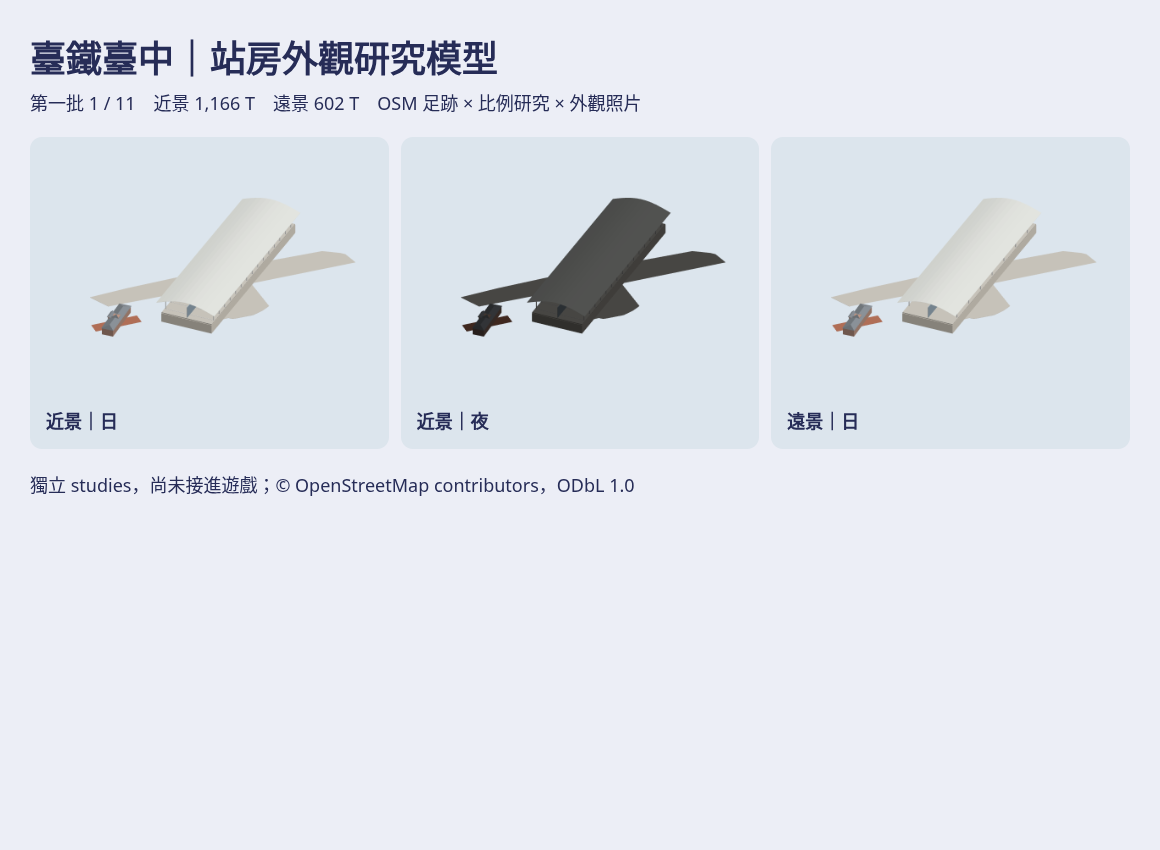
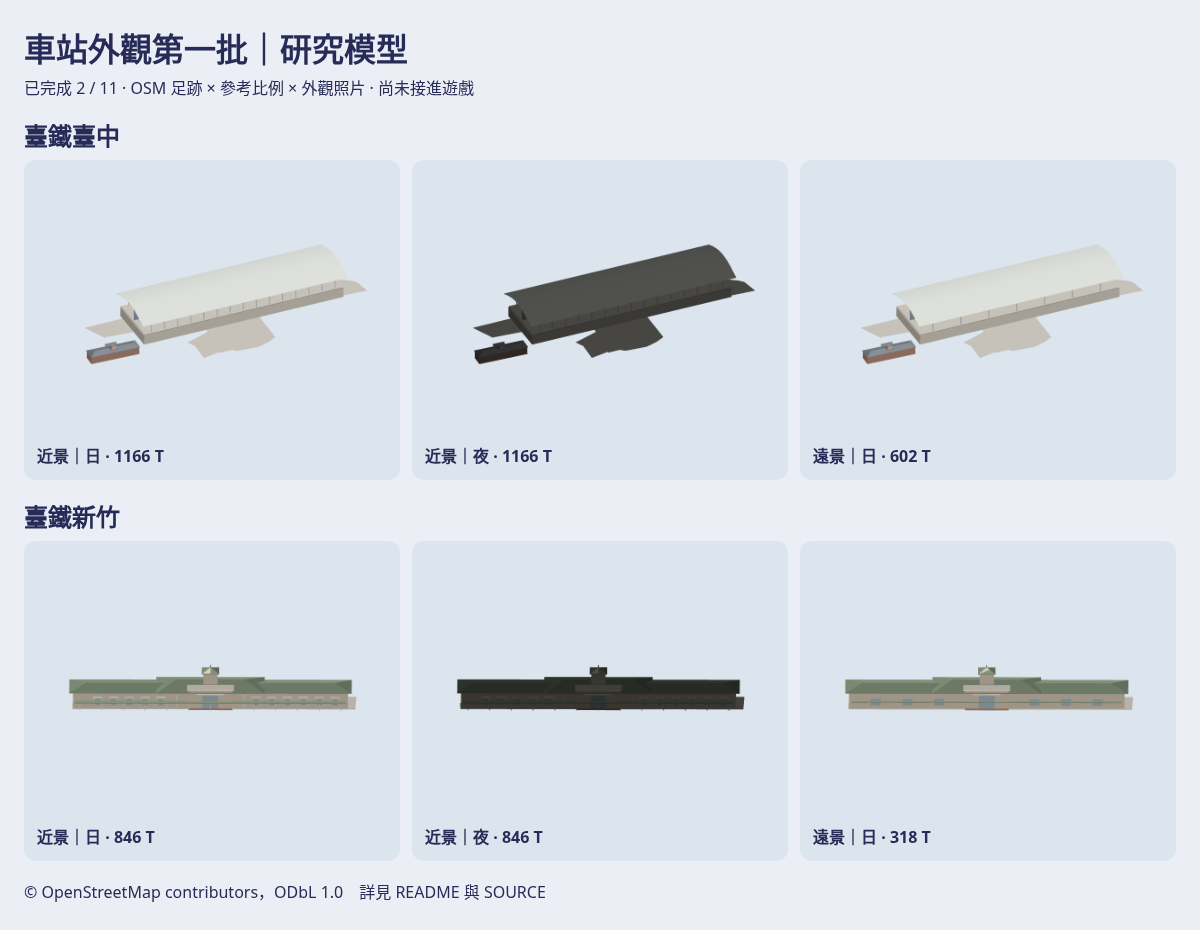
Add isolated Hsinchu station exterior study
Agent: Codex

diff --git a/Sources/GamePresentation/Map3DStationExteriorBatch1.swift b/Sources/GamePresentation/Map3DStationExteriorBatch1.swift
@@ -3,12 +3,13 @@ import Foundation
 /// Isolated exterior study. No station catalog or live-map lookup calls this type.
 public enum Map3DStationExteriorBatch1 {
     public enum LevelOfDetail: Sendable { case near, far }
-    public enum Station: String, CaseIterable, Sendable { case taichungTRA = "tra-taichung" }
+    public enum Station: String, CaseIterable, Sendable { case taichungTRA = "tra-taichung", hsinchuTRA = "tra-hsinchu" }
 
     public static func model(for station: Station, detail: LevelOfDetail) -> Map3DModelPack.Model {
         var builder = StationKitBuilder()
         switch station {
         case .taichungTRA: builder.taichungExteriorStudy(detail: detail)
+        case .hsinchuTRA: builder.hsinchuExteriorStudy(detail: detail)
         }
         return .flat(named: "station-exterior-study-\(station.rawValue)-\(detail == .near ? "near" : "far")", from: builder.mesh)
     }
@@ -75,6 +76,27 @@ public enum Map3DStationExteriorBatch1 {
         (-149.051, -38.319),
         (-154.586, -40.721)
     ]
+    // OSM way 293504390: 16 vertices, height=9, levels=2; no roof or tower part tags.
+    // Metres east/north from (120.97165154, 24.80160443); © OpenStreetMap contributors, ODbL 1.0.
+    static let hsinchuFootprint: [(Float, Float)] = [
+        (-57.772, -45.737),
+        (-59.185, -43.625),
+        (-66.059, -33.417),
+        (-45.387, -20.285),
+        (-27.409, -8.620),
+        (-13.449, 0.386),
+        (4.366, 11.873),
+        (15.470, 19.401),
+        (50.485, 42.085),
+        (57.087, 34.179),
+        (59.994, 36.047),
+        (61.720, 33.044),
+        (63.335, 30.242),
+        (4.669, -6.563),
+        (-10.401, -16.015),
+        (-37.463, -32.994)
+    ]
+
 }
 
 private extension StationKitBuilder {
@@ -152,7 +174,7 @@ private extension StationKitBuilder {
             }
         }
         // Reference OSM minimum rotated rectangle is 20.9529° east/north.
-        add(.flat(named: "hall", from: hall.mesh), at: Map3DPoint(18, 0, -24), angle: -20.9529 * .pi / 180)
+        add(.flat(named: "hall", from: hall.mesh), at: Map3DPoint(18, 0, -24), angle: 20.9529 * .pi / 180)
 
         // Former station: brick Baroque body, hipped roof, central clock tower.
         // OSM records two levels and roof:shape=hipped; 13 m total is estimated.
@@ -174,6 +196,56 @@ private extension StationKitBuilder {
         } else {
             old.clockFace(0, 9.45, -4.33, size: 1.8)
         }
-        add(.flat(named: "old-station", from: old.mesh), at: Map3DPoint(-147.5, 0, -45.7), angle: -23.4326 * .pi / 180)
+        add(.flat(named: "old-station", from: old.mesh), at: Map3DPoint(-147.5, 0, -45.7), angle: 23.4326 * .pi / 180)
+    }
+
+    mutating func hsinchuExteriorStudy(detail: Map3DStationExteriorBatch1.LevelOfDetail) {
+        footprint(Map3DStationExteriorBatch1.hsinchuFootprint, color: Map3DPalette.stone)
+        let wall = Map3DColor.rgb(0xE5D8C3)
+        let trim = Map3DColor.rgb(0xF1EADD)
+        let brick = Map3DColor.rgb(0xC79C89)
+        let roof = Map3DColor.rgb(0x899780)
+        let glass = Map3DColor.rgb(0xAFC7CD)
+        var station = StationKitBuilder()
+        // OSM's 9 m is used for the two-level wing. Roof ridge and clock tower
+        // are estimates from photos because the way has no building:part tags.
+        station.box(0, 0.32, 0, 139, 15.2, 8.68, wall)
+        station.hip(0, 9, 0, 142, 16.2, 2.0, roof)
+        // The broad raised central roof and its pale Baroque entrance.
+        station.box(0, 0.32, -8.0, 22, 3.2, 11.2, wall)
+        station.gable(0, 11.52, -8.0, 23.0, 4.3, 2.0, trim)
+        station.hip(0, 9.72, 0, 54, 19.5, 3.2, roof)
+        station.box(0, 1.2, -9.68, 8, 0.2, 7.2, glass)
+        station.box(0, 8.4, -9.78, 14, 0.35, 0.8, trim)
+        station.box(0, 0.32, -9.62, 22, 0.5, 1.0, brick)
+        // Clock tower is separate from the measured OSM height.
+        station.box(0, 11.4, 0, 7.2, 7.2, 6.3, wall)
+        station.hip(0, 17.7, 0, 8, 8, 2.0, roof)
+        station.box(0, 19.7, 0, 0.35, 0.35, 1.2, StationKitBuilder.steel)
+        station.clockFace(0, 14.0, -3.73, size: 2.2)
+        if detail == .near {
+            for x in stride(from: Float(-63), through: 63, by: 8) {
+                if abs(x) < 19 { continue }
+                station.box(x, 1.6, -7.74, 3.6, 0.16, 4.4, trim)
+                station.box(x, 2.0, -7.84, 2.9, 0.18, 3.7, glass)
+                station.box(x, 6.1, -7.82, 4.8, 0.35, 0.55, trim)
+            }
+            for x in stride(from: Float(-66), through: 66, by: 11) {
+                station.box(x, 0.32, -10.2, 0.35, 0.35, 4.5, trim)
+            }
+            station.box(0, 4.7, -10.2, 137, 2.8, 0.25, roof)
+            for x: Float in [-17, 17] {
+                station.box(x, 0.32, -7.8, 0.8, 0.8, 9.4, trim)
+                station.box(x, 8.8, -8.0, 1.3, 1.3, 0.5, brick)
+            }
+        } else {
+            for x in stride(from: Float(-56), through: 56, by: 16) {
+                if abs(x) < 19 { continue }
+                station.box(x, 2.1, -7.75, 5, 0.2, 3.7, glass)
+            }
+            station.box(0, 4.7, -9.5, 136, 1.5, 0.22, roof)
+        }
+        // OSM's minimum-area rectangle long axis bears 32.2° north of east.
+        add(.flat(named: "hsinchu-station", from: station.mesh), at: .zero, angle: 32.2 * .pi / 180)
     }
 }

diff --git a/Tests/GamePresentationTests/Map3DStationExteriorBatch1Tests.swift b/Tests/GamePresentationTests/Map3DStationExteriorBatch1Tests.swift
@@ -2,6 +2,38 @@ import XCTest
 @testable import GamePresentation
 
 final class Map3DStationExteriorBatch1Tests: XCTestCase {
+    func testHsinchuStudyKeepsOSMWayAndHistoricRoofSeparateFromChineseRoofs() {
+        let near = Map3DStationExteriorBatch1.model(for: .hsinchuTRA, detail: .near)
+        let far = Map3DStationExteriorBatch1.model(for: .hsinchuTRA, detail: .far)
+        XCTAssertGreaterThan(near.triangleCount, far.triangleCount)
+        XCTAssertLessThanOrEqual(near.triangleCount, 6_000)
+        XCTAssertLessThanOrEqual(far.triangleCount, 2_500)
+        XCTAssertNil(Map3DStationKit.model(id: near.name))
+        for (east, north) in Map3DStationExteriorBatch1.hsinchuFootprint {
+            XCTAssertTrue(near.vertices.contains {
+                abs($0.x - east) < 0.002 && abs($0.y + north) < 0.002 && abs($0.z - 0.32) < 0.002
+            })
+        }
+        let angle: Float = 32.2 * .pi / 180
+        let along = Map3DStationExteriorBatch1.hsinchuFootprint.map { $0.0 * cos(angle) + $0.1 * sin(angle) }
+        let across = Map3DStationExteriorBatch1.hsinchuFootprint.map { -$0.0 * sin(angle) + $0.1 * cos(angle) }
+        XCTAssertEqual((along.max() ?? 0) - (along.min() ?? 0), 143.68, accuracy: 0.1)
+        XCTAssertEqual((across.max() ?? 0) - (across.min() ?? 0), 16.87, accuracy: 0.1)
+        let colours = Set(near.vertices.map(\.color))
+        XCTAssertTrue(colours.contains(Map3DColor.rgb(0x899780)))
+        XCTAssertTrue(colours.contains(Map3DColor.rgb(0xC79C89)))
+        XCTAssertTrue(colours.contains(Map3DColor.rgb(0xE5D8C3)))
+        let ordered = [0xF1EADD, 0xE5D8C3, 0xC79C89, 0x899780].map(Map3DColor.rgb)
+        func brightness(_ color: UInt32) -> Float {
+            Float(color & 255) * 0.2126 + Float((color >> 8) & 255) * 0.7152
+                + Float((color >> 16) & 255) * 0.0722
+        }
+        for (lighter, darker) in zip(ordered, ordered.dropFirst()) {
+            XCTAssertTrue(colours.contains(lighter))
+            XCTAssertGreaterThan(brightness(lighter), brightness(darker))
+        }
+    }
+
     func testTaichungStudyUsesSurveyedFootprintsAndStaysOutsideOperationalCatalog() {
         let near = Map3DStationExteriorBatch1.model(for: .taichungTRA, detail: .near)
         let far = Map3DStationExteriorBatch1.model(for: .taichungTRA, detail: .far)

diff --git a/docs/art/station-exteriors-batch1/README.md b/docs/art/station-exteriors-batch1/README.md
@@ -1,4 +1,4 @@
-# 車站外觀第一批 studies：第 1 次交付
+# 車站外觀第一批 studies：第 2 次交付
 
 這是獨立研究配方，沒有接到 `Map3DStationKit` 的站點選型、地圖或存檔。公開庫只有配方、測試與一張總覽；逐方向原生模型、GLB、日夜圖與離線檢視頁在私有素材庫的同名資料夾。
 
@@ -13,13 +13,20 @@
 
 外觀照片核對（僅看外形，未用貼圖）：Wikimedia Commons 的 [2022-03 TRA Taichung Station](https://commons.wikimedia.org/wiki/File:2022-03_TRA_Taichung_Station.jpg)、[2022 Space frames of the TRA Taichung Station](https://commons.wikimedia.org/wiki/File:2022_Space_frames_of_the_TRA_Taichung_Station.jpg) 顯示新站的長玻璃立面、白灰結構柱與金屬棚；[Facade of the old Taichung Station](https://commons.wikimedia.org/wiki/File:Facade_of_the_old_Taichung_Station.png) 顯示舊驛的紅磚、淺色飾帶、深色瓦頂、中央高窗與鐘塔。研究版抽象掉桁架和拱窗細雕，並以近景主體、遠景輪廓區分。
 
-用既有 `StationKitBuilder` 的盒體、曲棚、四坡頂與鐘面組合；新站取 OSM 的基底和高度，舊驛用 OSM 的紅磚站房輪廓與屋頂型，窗與柱列以近景加細、遠景減省。最後調為淡白、暖牆、淡磚與灰褐屋頂，維持牆／屋頂／窗的明暗區分。近景 **1,166 三角**（上限 6,000）、遠景 **602 三角**（上限 2,500）；逐檔數量見私庫 `manifest.json`。
+用既有 `StationKitBuilder` 的盒體、曲棚、四坡頂與鐘面組合；新站取 OSM 的基底和高度，舊驛用 OSM 站房輪廓與四坡屋頂標籤，紅磚色照外觀照片，窗與柱列以近景加細、遠景減省。最後調為淡白、暖牆、淡磚與灰褐屋頂，維持牆／屋頂／窗的明暗區分。近景 **1,166 三角**（上限 6,000）、遠景 **602 三角**（上限 2,500）；逐檔數量見私庫 `manifest.json`。
 
-## 尚缺的十站
+## 已完成：臺鐵新竹
+
+| 部件 | 可核對的尺寸／資料 | 外觀判斷與推估 |
+| --- | --- | --- |
+| 新竹站房 | OSM way [293504390](https://www.openstreetmap.org/way/293504390)，16 個不重複頂點，最小旋轉矩形 **143.68 × 16.87 m**、長軸由東往北約 32.2°，`height=9` m、`building:levels=2` | OSM 沒有屋頂形狀、`building:part` 或 `roof:height`；本版把 9 m 當兩翼站房高度。站房中央綠瓦大屋頂的脊高約 13 m、鐘塔到 20.9 m 皆是照片與 Blender v1 比例推估，非 OSM 高度。 |
+
+站房地面邊界從同一份台灣 PBF 量測。參考庫 `blender-buildings-v1/hsinchu-tra/model.json` 的 65 × 22 × 20 m 是舊展示估值，長度不足 OSM 143.68 m，僅用來看鐘塔與中段立面比例，不用原網格。外觀照片看 Wikimedia Commons [新竹火車站（巴洛克風格）](https://commons.wikimedia.org/wiki/File:新竹火車站(巴洛克風格).jpg) 與 [新竹市火車站夜景](https://commons.wikimedia.org/wiki/File:新竹市火車站.jpg)：淺色拱窗立面、中央高廳、鐘塔及綠色屋頂。沒有照片貼圖；使用 station kit 的四坡頂、盒體與鐘面，沒有中式屋頂。研究版的拱窗細部與屋頂坡度是視覺簡化。近景 **846 三角**、遠景 **318 三角**；逐檔數量見私庫 `manifest.json`。OSM 輪廓 © OpenStreetMap contributors，ODbL 1.0。
+
+## 尚缺的九站
 
 | 站 | 來源與目前量到的部件足跡（m） | 還缺的核對 |
 | --- | --- | --- |
-| 臺鐵新竹 | Blender v1 `hsinchu-tra/model.json` 的 65 × 22 × 20 m 全是推估；尚缺已核對的 OSM 站房 way。 | OSM 站房足跡／屋頂與拱窗、鐘塔照片比例。 |
 | 臺鐵花蓮 | 參考庫 `stations/hualien-v1/metadata.json` 的 OSM 輪廓：花蓮跨站大廳 153 × 46（554768918）；花蓮售票大廳 55 × 50（554768913）；迎客大傘 74 × 30（718223887）；花蓮前站 88 × 19（132937553）；花蓮後站 62 × 23（132937567）；月台棚 195 × 10（1342634750）；月台棚 195 × 11（1342634751）；月台棚 195 × 12（1352337182） | 8 部件的屋頂及真實高度。 |
 | 臺鐵臺東 | 參考庫 `stations/taitung-v1/metadata.json` 的 OSM 輪廓：臺東車站 88 × 24（386900387）；前廊雨棚 90 × 24（724860888）；月台棚 226 × 10（386900423）；月台棚 239 × 10（386900424）；月台棚 227 × 11（386900425） | 5 部件的坡頂、前廊與真實高度。 |
 | 臺鐵板橋 | 參考庫 `stations/banqiao-v1/metadata.json` 的 OSM 輪廓：板橋車站 199 × 122（232201616）；板橋站塔樓 44 × 42（1491394339）；板橋站塔樓 44 × 42（1491394340）；環狀線板橋 91 × 35（818694787） | 雙塔與站體真實高度及照片細節。 |
@@ -31,6 +38,7 @@
 | 高鐵左營 | 參考庫 `stations/zuoying-complex-v1/metadata.json` 的 OSM 輪廓：高鐵左營 186 × 78（111991261）；臺鐵新左營 168 × 67（303296097） | 大頂與真實高度。 |
 
 上表尺寸是參考庫依 OSM 輪廓量出的最小矩形，括號內為 OSM way／relation 識別；這些站的 `displayHeightM` 都是展示推估，**尚未**作為真實高度。每站完成前須從整份 Taiwan PBF 重新核對 way、`building:part`、高度與屋頂標籤，再看照片選各部件，並另做近遠兩版。資料出處同為 © OpenStreetMap contributors，ODbL 1.0。
+
 ## 檢查與邊界
 
 測試驗證新研究模型的三角預算、每個 OSM 地面頂點、近遠兩版，以及研究 ID 不進現有 station kit 查表。現有站型原始檔、營運映射與雜湊均未改；GameCore、golden、save 與 fixtures 未改。Metal/iPhone/iPad、正式地圖放置與作者外觀接受仍未驗證。
